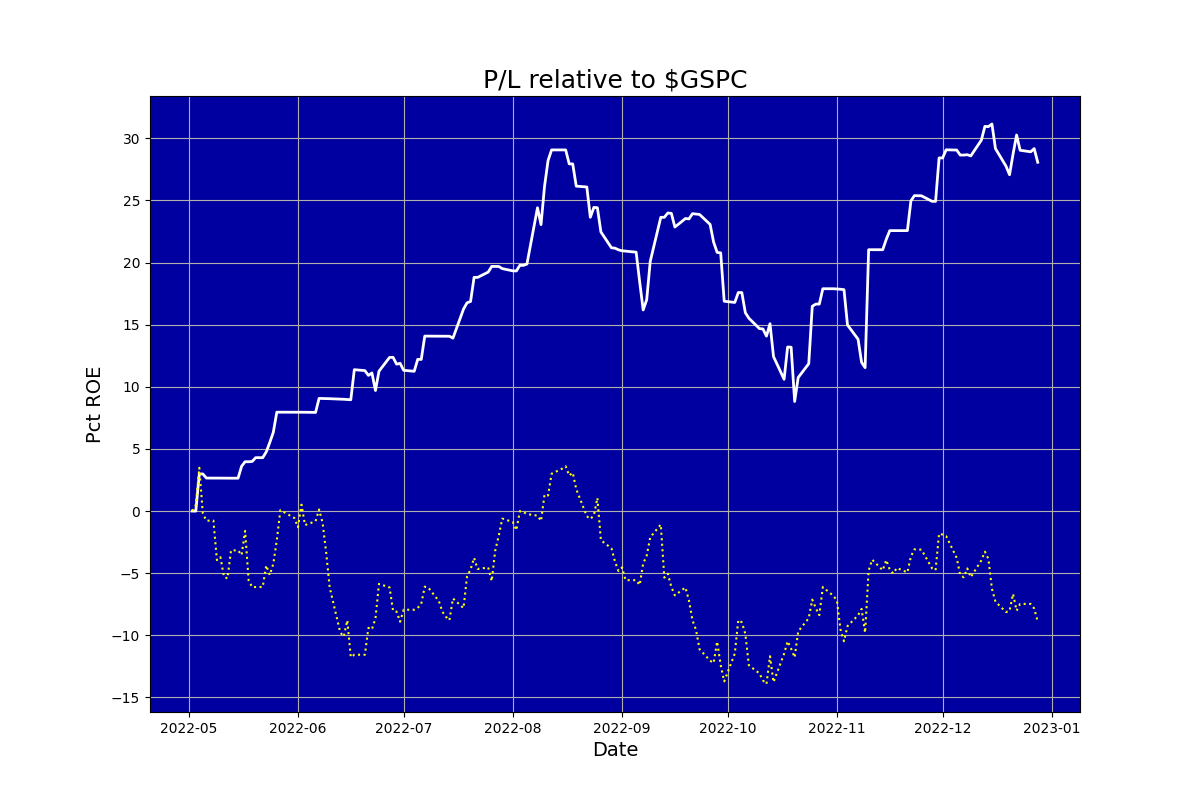
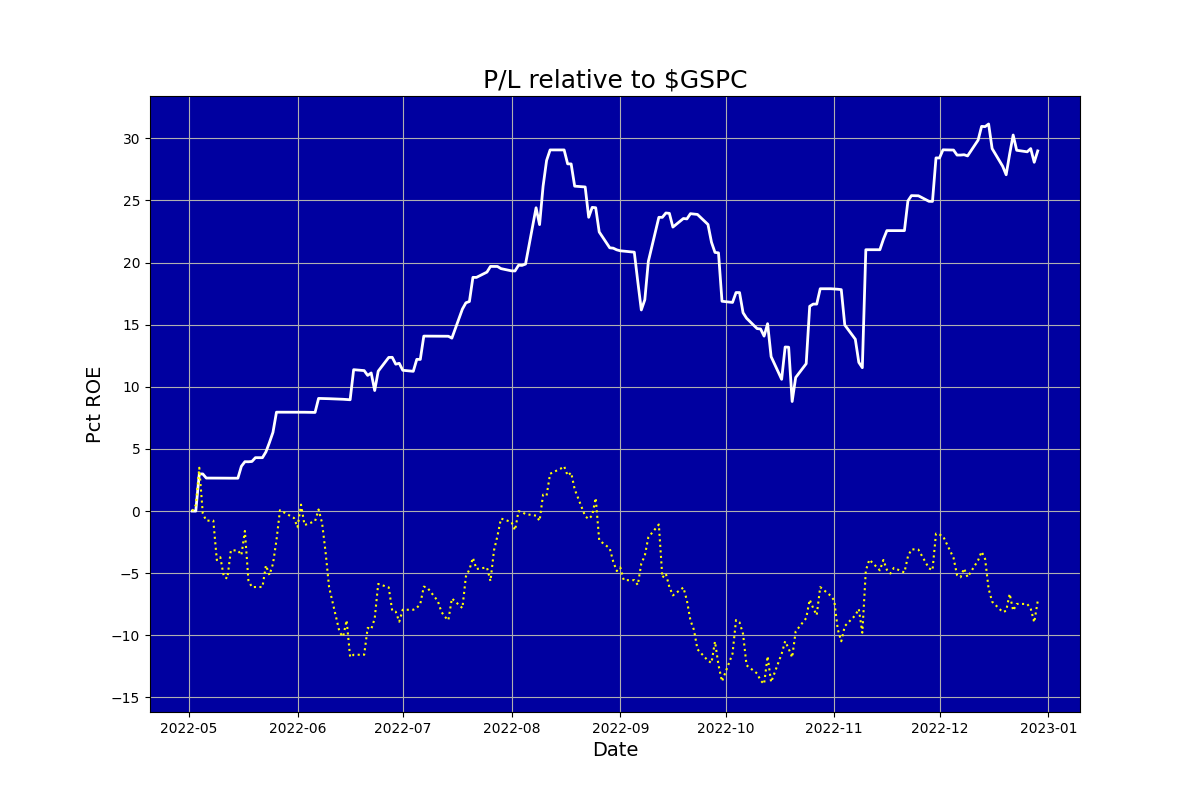
Updated

diff --git a/ig_report.html b/ig_report.html
@@ -1,1 +1,1 @@
-<html><body><center><h1>Auriel (never knowingly overbought)</h1></center><table cols=2><tr><td><img src=ig_pl.png></td><td><table cols=2><tr><td colspan=2><b><br>Snapshot</b></td></tr><tr><td>Last updated:&nbsp;&nbsp;&nbsp;</td><td>2022-12-28 15:56</td></tr><tr><td>Margin:&nbsp;&nbsp;&nbsp;</td><td>0.24</td></tr><tr><td>Cushion:&nbsp;&nbsp;&nbsp;</td><td>-3750.21</td></tr><tr><td>Last closed trade:&nbsp;&nbsp;&nbsp;</td><td>2022-12-28</td></tr><tr><td colspan=2><b><br>Positions</b></td></tr><tr><td>Mean days to new high:&nbsp;&nbsp;&nbsp;</td><td>12.16</td></tr><tr><td colspan=2><b><br>Trades</b></td></tr><tr><td>Traded days:&nbsp;&nbsp;&nbsp;</td><td>175</td></tr><tr><td>Profitable days pct:&nbsp;&nbsp;&nbsp;</td><td>34.29</td></tr><tr><td>Days beat S&P pct:&nbsp;&nbsp;&nbsp;</td><td>58.68</td></tr><tr><td>Profitable months pct:&nbsp;&nbsp;&nbsp;</td><td>75.00</td></tr><tr><td colspan=2><b><br>Performance</b></td></tr><tr><td>Pct median monthly ROE:&nbsp;&nbsp;&nbsp;</td><td>2.53</td></tr><tr><td>Pct annualised ROE:&nbsp;&nbsp;&nbsp;</td><td>37.24</td></tr><tr><td colspan=2><b><br>Risk</b></td></tr><tr><td>Volatility pct:&nbsp;&nbsp;&nbsp;</td><td>19.56</td></tr><tr><td>Benchmark volatility pct:&nbsp;&nbsp;&nbsp;</td><td>25.05</td></tr><tr><td>Sharpe ratio (RFR 5.0%):&nbsp;&nbsp;&nbsp;</td><td>1.74</td></tr><tr><td>Sortino ratio (RFR 5.0%):&nbsp;&nbsp;&nbsp;</td><td>2.87</td></tr><tr><td>Calmar ratio:&nbsp;&nbsp;&nbsp;</td><td>1.84</td></tr><tr><td>Worst drawdown pct:&nbsp;&nbsp;&nbsp;</td><td>-0.20</td></tr><tr><td>Recovery days from worst drawdown:&nbsp;&nbsp;&nbsp;</td><td>31.00</td></tr><tr><td>Beat benchmark +ve periods pct:&nbsp;&nbsp;&nbsp;</td><td>80.75</td></tr><tr><td>Beat benchmark -ve periods pct:&nbsp;&nbsp;&nbsp;</td><td>89.25</td></tr><tr><td>Correlation with benchmark:&nbsp;&nbsp;&nbsp;</td><td>0.41</td></tr></table></td></tr></table></body></html>
+<html><body><center><h1>Auriel (never knowingly overbought)</h1></center><table cols=2><tr><td><img src=ig_pl.png></td><td><table cols=2><tr><td colspan=2><b><br>Snapshot</b></td></tr><tr><td>Last updated:&nbsp;&nbsp;&nbsp;</td><td>2022-12-29 15:57</td></tr><tr><td>Margin:&nbsp;&nbsp;&nbsp;</td><td>0.10</td></tr><tr><td>Cushion:&nbsp;&nbsp;&nbsp;</td><td>-3304.72</td></tr><tr><td>Last closed trade:&nbsp;&nbsp;&nbsp;</td><td>2022-12-29</td></tr><tr><td colspan=2><b><br>Positions</b></td></tr><tr><td>Mean days to new high:&nbsp;&nbsp;&nbsp;</td><td>12.11</td></tr><tr><td colspan=2><b><br>Trades</b></td></tr><tr><td>Traded days:&nbsp;&nbsp;&nbsp;</td><td>176</td></tr><tr><td>Profitable days pct:&nbsp;&nbsp;&nbsp;</td><td>34.66</td></tr><tr><td>Days beat S&P pct:&nbsp;&nbsp;&nbsp;</td><td>58.33</td></tr><tr><td>Profitable months pct:&nbsp;&nbsp;&nbsp;</td><td>87.50</td></tr><tr><td colspan=2><b><br>Performance</b></td></tr><tr><td>Pct median monthly ROE:&nbsp;&nbsp;&nbsp;</td><td>2.53</td></tr><tr><td>Pct annualised ROE:&nbsp;&nbsp;&nbsp;</td><td>38.04</td></tr><tr><td colspan=2><b><br>Risk</b></td></tr><tr><td>Volatility pct:&nbsp;&nbsp;&nbsp;</td><td>19.52</td></tr><tr><td>Benchmark volatility pct:&nbsp;&nbsp;&nbsp;</td><td>25.10</td></tr><tr><td>Sharpe ratio (RFR 5.0%):&nbsp;&nbsp;&nbsp;</td><td>1.79</td></tr><tr><td>Sortino ratio (RFR 5.0%):&nbsp;&nbsp;&nbsp;</td><td>2.94</td></tr><tr><td>Calmar ratio:&nbsp;&nbsp;&nbsp;</td><td>1.88</td></tr><tr><td>Worst drawdown pct:&nbsp;&nbsp;&nbsp;</td><td>-0.20</td></tr><tr><td>Recovery days from worst drawdown:&nbsp;&nbsp;&nbsp;</td><td>31.00</td></tr><tr><td>Beat benchmark +ve periods pct:&nbsp;&nbsp;&nbsp;</td><td>80.83</td></tr><tr><td>Beat benchmark -ve periods pct:&nbsp;&nbsp;&nbsp;</td><td>89.39</td></tr><tr><td>Correlation with benchmark:&nbsp;&nbsp;&nbsp;</td><td>0.41</td></tr></table></td></tr></table></body></html>
